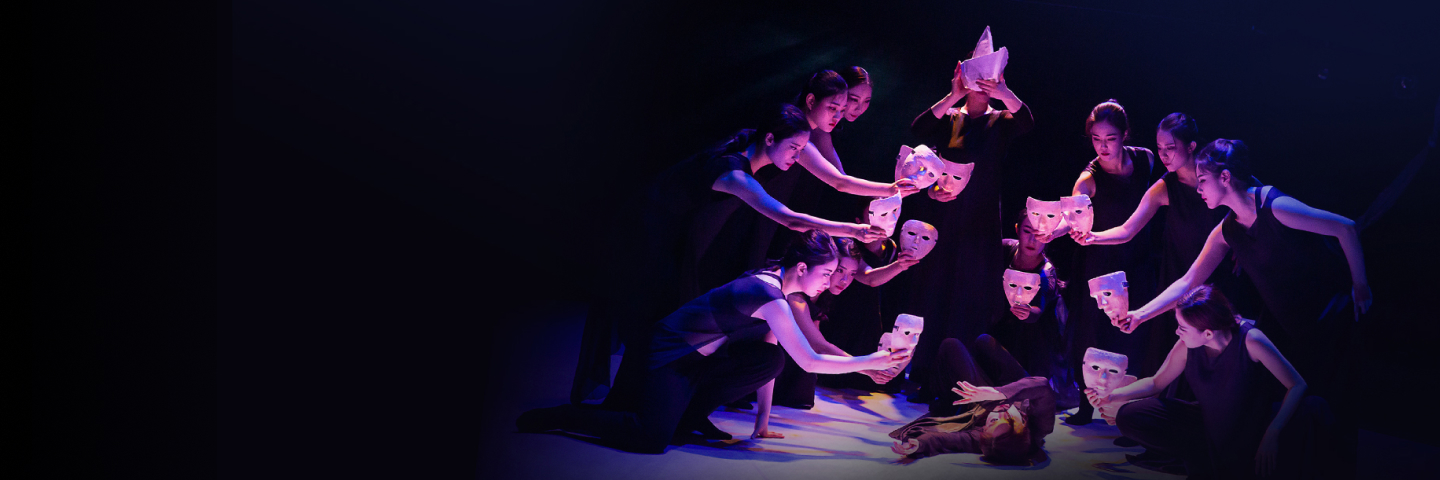
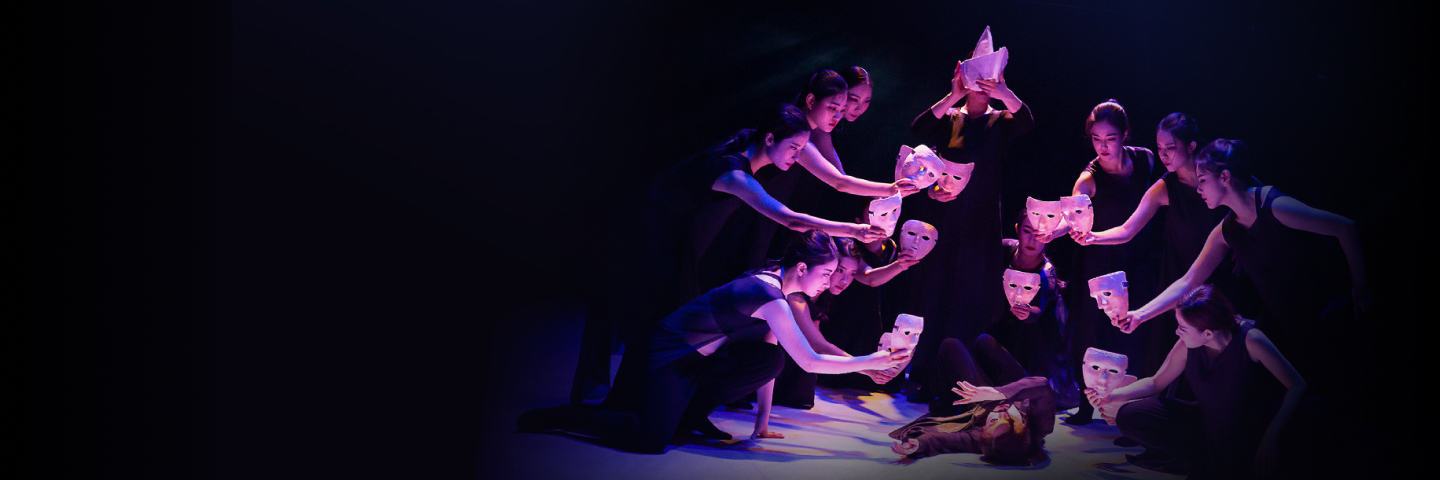
헤더, 메인배너, 인트로덕션 구현
- 헤더, 메인배너, 인트로덕션 구현(1차작업)
- 메인배너 이미지 수정(좌우 검은색 그라데이션으로 꽉찬 효과)
- js, 메인배너 이미지 전환

Changed region(s): [[0.8125, 0.0, 1.0, 0.6562], [0.8125, 0.6562, 0.9062, 0.875]]

diff --git a/index.html b/index.html
@@ -5,12 +5,127 @@
     <meta http-equiv="X-UA-Compatible" content="IE=edge" />
     <meta name="viewport" content="width=device-width, initial-scale=1.0" />
     <title>숙명여자대학교 무용과</title>
-    <!-- css style -->
-    <link rel="stylesheet" href="./css/style.css" />
     <!-- jQuery 라이브러리 -->
     <script src="https://ajax.googleapis.com/ajax/libs/jquery/3.6.1/jquery.min.js"></script>
     <!-- 내 자바스크립트 -->
     <script src="./js/main.js"></script>
+    <!-- css style -->
+    <link rel="stylesheet" href="./css/style.css" />
   </head>
-  <body></body>
+  <body>
+    <header id="main-header">
+      <div class="container">
+        <h1>
+          <a href="./"
+            ><!-- 서버상 홈을 의미 -->
+            <img src="./images/logo.png" alt="숙명여대 무용과" />
+          </a>
+        </h1>
+        <nav id="gnb">
+          <ul class="depth1">
+            <li>
+              <a href="#">학과소개</a>
+              <ul class="depth2">
+                <li><a href="#">학과소개</a></li>
+                <li><a href="#">교육목표</a></li>
+                <li><a href="#">교육과정</a></li>
+                <li><a href="#">시설 및 환경</a></li>
+                <li><a href="#">오시는 길</a></li>
+              </ul>
+            </li>
+            <li>
+              <a href="#">교수진</a>
+              <ul class="depth2">
+                <li><a href="#">교수진</a></li>
+              </ul>
+            </li>
+            <li>
+              <a href="#">무용단 소개</a>
+              <ul class="depth2">
+                <li><a href="#">한국무용</a></li>
+                <li><a href="#">현대무용</a></li>
+                <li><a href="#">발레</a></li>
+              </ul>
+            </li>
+            <li>
+              <a href="#">공지사항</a>
+              <ul class="depth2">
+                <li><a href="#">공지사항</a></li>
+                <li><a href="#">열림마당</a></li>
+                <li><a href="#">Q&A</a></li>
+              </ul>
+            </li>
+            <li>
+              <a href="#">학과활동</a>
+              <ul class="depth2">
+                <li><a href="#">학과활동</a></li>
+              </ul>
+            </li>
+            <li>
+              <a href="#">무용과 행사</a>
+              <ul class="depth2">
+                <li><a href="#">창작발표회</a></li>
+                <li><a href="#">졸업발표회</a></li>
+                <li><a href="#">공연 및 행사</a></li>
+              </ul>
+            </li>
+          </ul>
+        </nav>
+        <!-- 토글버튼 -->
+        <a href="#" class="btn-toggle"
+          ><img src="./images/gnb-menu.svg" alt="toggle sitemap"
+        /></a>
+      </div>
+      <!-- // header .container -->
+    </header>
+    <!-- 메인배너 -->
+    <section id="main-banner">
+      <div class="container">
+        <h1>
+          SOOKMYUNG <br />
+          WOMEN’S UNIVERSITY <br />
+          DEPARTMENT OF DANCE
+        </h1>
+      </div>
+      <!-- // 메인배너 .container -->
+    </section>
+
+    <!-- introduction -->
+    <section id="intro">
+      <div class="container">
+        <h1>Introduction</h1>
+        <ul class="intro-list">
+          <li>
+            <a href="#">
+              <img src="./images/intro_1.jpg" alt="교육목표" />
+              <h2>교육목표</h2>
+              <p>미래 문화예술을 이끌어갈 인재 양성</p>
+            </a>
+          </li>
+          <li>
+            <a href="#">
+              <img src="./images/intro_2.jpg" alt="교육과정" />
+              <h2>교육과정</h2>
+              <p>다양한 장르의 실기 및 이론교육</p>
+            </a>
+          </li>
+          <li>
+            <a href="#">
+              <img src="./images/intro_3.jpg" alt="교수진" />
+              <h2>교수진</h2>
+              <p>숙명여자대학교 무용과 교수진</p>
+            </a>
+          </li>
+          <li>
+            <a href="#">
+              <img src="./images/intro_4.jpg" alt="학과활동" />
+              <h2>학과활동</h2>
+              <p>창작 발표회 & 졸업 발표회</p>
+            </a>
+          </li>
+        </ul>
+      </div>
+      <!-- // Intro .container -->
+    </section>
+  </body>
 </html>

diff --git a/css/style.css b/css/style.css
@@ -8,10 +8,164 @@
 
 /* css style */
 
+:root {
+  --main-color: #0c2d83;
+  --bg-color-light: #f5f5f5;
+  --text-light: #666;
+  --white: #fff;
+}
+
 body {
   font-family: "Noto Sans KR", sans-serif;
+  font-size: 15px;
+  background-color: var(--white);
 }
 
 h1 {
   font-family: "Crimson Text", serif;
+  font-size: 26px;
+  font-weight: 600;
+}
+
+h2 {
+  font-size: 22px;
+  font-weight: 500;
+}
+
+h3 {
+  font-size: 20px;
+  font-weight: 500;
+}
+
+a {
+  color: #000;
+}
+
+.container {
+  width: 1440px;
+  height: 100%;
+  /* outline: 0.5px solid red; */
+  margin: 0 auto;
+  position: relative;
+}
+
+/* ##### 헤더 ##### */
+
+#main-header {
+  height: 80px;
+  /* background: #ccc; */
+}
+
+#main-header h1 {
+  position: absolute;
+  left: 20px;
+  top: 15px;
+}
+#gnb {
+  position: absolute;
+  right: 170px;
+  top: 28px;
+  z-index: 100;
+}
+
+/* 1단계 메뉴 */
+#gnb .depth1 {
+  display: flex;
+}
+#gnb .depth1 > li {
+  width: 100px;
+  display: inline-block;
+  margin-left: 20px;
+  /* outline: 1px solid red; */
+  text-align: center;
+}
+#gnb .depth1 > li > a {
+  font-size: 18px;
+  font-weight: 500;
+}
+
+/* 2단계 메뉴 */
+
+#gnb .depth2 {
+  background: var(--white);
+  border: 0.1px solid #ccc;
+  margin-top: 27px;
+  display: none;
+  padding: 10px;
+}
+
+#gnb .depth2 > li {
+  margin-bottom: 10px;
+}
+#gnb .depth2 > li:last-child {
+  margin-bottom: 0;
+}
+
+#gnb .depth2 a {
+  color: var(--text-light);
+}
+/* 호버효과 */
+#gnb .depth1 > li:hover > a {
+  color: var(--main-color);
+  font-weight: 700;
+}
+
+#gnb .depth1 > li:hover .depth2 {
+  display: block;
+}
+
+#gnb .depth2 > li:hover > a {
+  text-decoration: underline;
+}
+
+#main-header .btn-toggle {
+  position: absolute;
+  right: 20px;
+  top: 25px;
+}
+
+/* ##### 메인배너 ##### */
+
+#main-banner {
+  height: 480px;
+  background: #000;
+}
+
+#main-banner .container {
+  background-image: url(../images/main-banner-1.jpg);
+  background-image: url(../images/main-banner-2.jpg);
+  display: flex;
+  align-items: center;
+}
+
+#main-banner h1 {
+  color: var(--white);
+  font-size: 60px;
+  font-weight: 400;
+  padding-left: 100px;
+}
+
+/* ##### Introduction ##### */
+
+#intro .container {
+  padding: 50px 20px;
+  background: #ccc;
+}
+
+#intro .intro-list {
+  display: flex;
+  /* gap: 20px; */
+  padding-top: 28px;
+  justify-content: space-between;
+}
+
+#intro .intro-list li {
+  /* outline: 1px solid red; */
+  width: calc((100% - 60px) / 4);
+  text-align: center;
+}
+
+#intro .intro-list li img {
+  width: 100%;
+  display: flex;
 }

diff --git a/js/main.js b/js/main.js
@@ -1,1 +1,23 @@
 /* main.js */
+$(function () {
+  let bgArr = [
+    "images/main-banner-1.jpg",
+    "images/main-banner-2.jpg",
+    "images/main-banner-3.jpg",
+  ];
+  /* 스크립트에서 경로를 불러올 때는 js파일 폴더나 css파일 폴더가 기준이 아닌, HTML문서 기준으로 찾는다.
+  DOM 조작은 attribute(인라인속성)을 변경하는 것이기 때문 */
+
+  let bg_img_num = 0;
+
+  setInterval(function () {
+    bg_img_num++;
+
+    if (bg_img_num >= bgArr.length) {
+      bg_img_num = 0;
+    }
+    $("#main-banner .container").css({
+      "background-image": `url(${bgArr[bg_img_num]})`,
+    });
+  }, 5000);
+});
